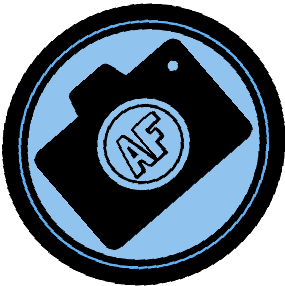
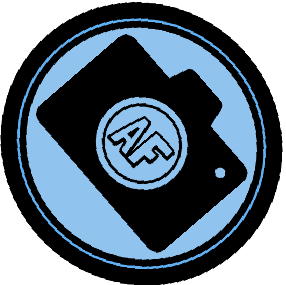
portfolio

diff --git a/htdocs/style.css b/htdocs/style.css
@@ -1,31 +1,53 @@
 /*Start page*/
-
+.element::-webkit-scrollbar { width: 0 !important }
 #logo{
-  transform: rotateZ(40deg);
+  height: 200px;
   margin: 0px auto;
   display: flex;
   justify-content: center;
+  padding-top: 50px;
 }
+#blank{
+  background-color: transparent;
+}
+.arrow{
+  display: inline-block;
+  width: 15px;
+  height: 15px;
+  border-top: 2px solid #000;
+  border-right: 2px solid #000;
+margin-bottom: 50px;
+}
+.arrow-bottom{
+  transform: rotate(135deg);
+}
+.arrow-bottom:active{
+  transform: rotate(-20deg);
+}
+.arrow-bottom:hover{
+  transform: scale(2) rotate(135deg);
+
+}
+
 #lets-start{
 background-color: transparent;
   color: #cbffba;
   font-size: 40px;
   font-family: Salina, serif;
-
-  text-decoration: none;
-
+  text-decoration: none;  overflow: hidden; /* Hide scrollbars */
 
 }
-#lets-start:hover{
-   transform: scale(5);
- }
+
 #start-screen{
   text-align: center;
   text-decoration: none;
+  padding-bottom: 100%;
+  overflow: hidden;
+  justify-content: center;
+
 }
 
 #welcome{
-  height: 300px;
   font-family: Salina, serif;
   font-size: 50px;
   padding-top: 110px;
@@ -35,12 +57,52 @@ background-color: transparent;
 }
 
 
-/*particles*/
+/*Glowing*/
+#geeks {
+    width: 20px;
+    height: 20px;
+    background: #fff;
+    position: absolute;
+    top: 50%;
+    left: 50%;
+    transform: translate(-50%, -50%);
+}
+
+#geeks::before {
+    content: "";
+    position: absolute;
+    top: 0;
+    left: 0;
+    width: 100%;
+    height: 100%;
+    background: green;
+    animation: animate 4s forwards infinite;
+    animation-direction: alternate;
 
 
+}
 
+@keyframes animate {
+    0% {
+        left: 0px; top: 0px;
+    }
+    25%{
+        left: 200px; top: 0px;
+    }
+    50%{
+        left: 200px; top: 200px;
+    }
+    75%{
+        left: 0px; top: 200px;
+
+    }
+    100% {
+        left: 0px; top: 0px;
+    }
+}
 
 /*------------------------------------------- home page */
+
 html{
   scroll-behavior: smooth ;
 }
@@ -61,20 +123,23 @@ body{
 
 /* Header*/
 #header{
+    width: 100%;
 
+    text-align: center;
 }
 #nav-bar,a{
-  background-color: black;
-  text-decoration: none;
-  color: white;
-
+    text-decoration: none;
+    color: white;
+    background-color: grey;
 }
-
+#contactImage{
+    width: 100%;
+    padding-bottom: 50px;
+}
 #banner{
   font-size: 40px;
   color: white;
-  text-align: center;
-  background-color: grey;
+
 }
 picture{
   display: table;
@@ -89,9 +154,10 @@ picture{
 .profile-photo{
   background: rgba(15,28,63,0.125);
   border-radius: 50%;
-  height: 350px;
+  height: 50%;
   object-fit: cover;
-  width: 350px;
+  width: 50%;
+  text-align: center;
 }
 /*----sections*/
 section{
@@ -103,25 +169,37 @@ section{
 }
 /*---------------footer*/
 footer{
-  width: 100%;
-  background-color: black;
-  color: white;height: 20%;
+    width: 100%;
+    background-color: grey;
+    color: white;height: 20%;
 }
 #footer-section{
   font-family: normal, serif;
   text-align: center;
 
 }
+#contacttext{
+     color: blue;
+     background: transparent;
+
+ }
+/*--------------------------Contact Form */
+
 #contact-form{
-  width: 100px;
+    font-family: "18thCentury",serif;
+    font-size: 30px;
+    width: 200px;
+    float: left;
+    display: grid;
+    background: #cbffba;
 
 }
+
 #name-form,#email-form{
-  width: 350px;
+  width: 50%;
   height: 50%;
 }
 #bericht-form{
   height: 200px;
-  width: 400px;
+  width: 70%;
 }
-/* laptop */

diff --git a/htdocs/Index.html b/htdocs/Index.html
@@ -14,22 +14,19 @@
 
     </head>
     <body>
-    <div id="start-screen">
-        <img src="img/New%20Project%20(13).png" id="logo" alt="Logo">
-        <script type=""></script>
-        <p id="welcome">Welcome,<br>To My Page</p>
-        <a href="#header" id="lets-start">Lets Start</a>
-        <div id="login-index"></div>
-    </div>
+
+        <div id="start-screen">
+            <div id="geeks"></div>
+            <img src="img/LogoMakr_9pgnAN.png" id="logo" alt="Logo">
+            <script type=""></script>
+            <p id="welcome">Welcome,<br>To My Page</p>
+            <p id="lets-start">Lets Start</p>
+            <a id="blank" href="#header"><span class="arrow arrow-bottom"></span></a>
+        </div>
     <header id="header">
         <div id="nav-bar">
-            <a id="posts" href="Posts.html">Posts</a>
             <div id="banner"> Take A pic with proud</div>
-            <video>
-                <source src="" type="video/mp4">
-            </video>
         </div>
-        
      </header>
         <div id="wrapper">
             <section>
@@ -57,23 +54,21 @@
                 <h1>Skills</h1>
                 <h5>........</h5>
             </section>
+            <section id="Leren">
+                <h1>Wat wil ik leren?</h1>
+                <h5>........</h5>
+            </section>
         </div>
         <footer>
+
             <section id="footer-section">
-                <a href="Posts.html">Posts</a>
-                &copy; Copyright 2020 Alicia Fernandes
+                <p>Volg deze link om met mij contact te hebben <a href="Contact.html" id="contacttext">Contact</a></p>
+                <br>
+                Copyright &copy;  2020 Alicia Fernandes
+
             </section>
 
         </footer>
 
-        <!-- Global site tag (gtag.js) - Google Analytics -->
-        <script async src="https://www.googletagmanager.com/gtag/js?id=UA-168946651-1"></script>
-        <script>
-          window.dataLayer = window.dataLayer || [];
-          function gtag(){dataLayer.push(arguments);}
-          gtag('js', new Date());
-
-          gtag('config', 'UA-168946651-1');
-        </script>
     </body>
 </html>

diff --git a/htdocs/Contact.html b/htdocs/Contact.html
@@ -1,0 +1,36 @@
+<!DOCTYPE html>
+<html>
+<head>
+  <meta http-equiv="Content-Type" content="text/html; charset=UTF-8">
+  <link rel="stylesheet" href="style.css">
+  <link rel = "icon" type = "image/png" href = "img/LogoMakr_9pgnAN.png">
+  <title>Take a pic with proud-Alicia Fernandes</title>
+  <meta http-equiv="content-language" content="en">
+  <meta name="viewport" content="width=device-width, initial-scale=1">
+
+</head>
+  <body>
+    <div id="wrapper">
+      <header id="header">
+        <div id="nav-bar">
+          <div>
+            <a href="Index.html#header"id="banner">Take A pic with proud</a>
+          </div>
+        </div>
+        <img src="img/Contact-image.jpg" alt="Contact" id="contactImage">
+      </header>
+      <form id="contact">
+        <label>Name
+          <input name="name" type="text" id="name-form">
+        </label>
+        <label>Email
+          <input name="email" type="email" id="email-form">
+        </label>
+        <label>Bericht
+          <textarea name="textbox" id="bericht-form"></textarea>
+        </label>
+      </form>
+    </div>
+
+  </body>
+</html>
